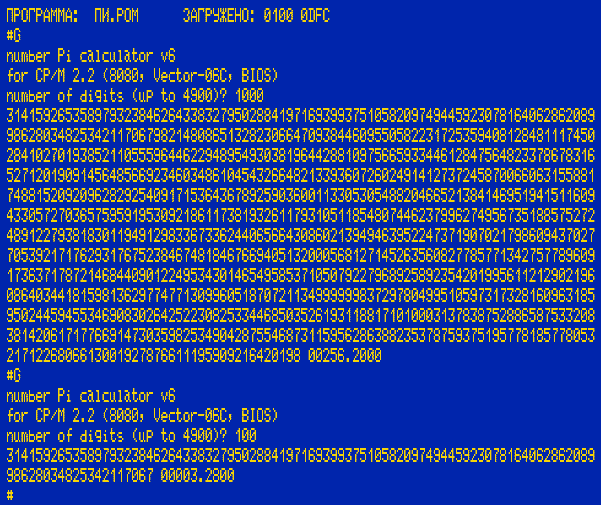
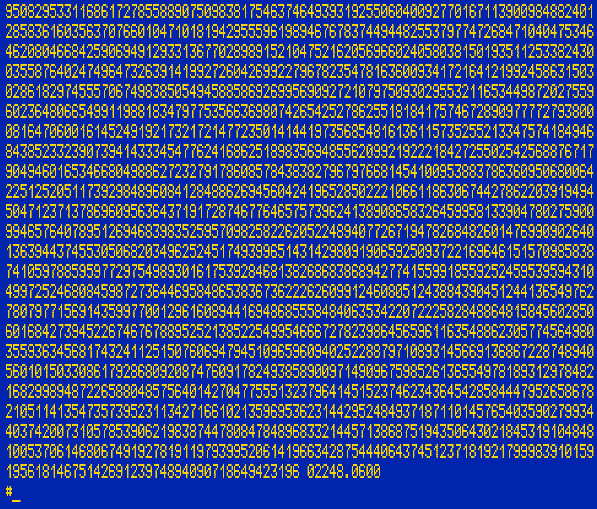
cpu article: a tiny upgrade to the Z80; pi: new data for the Amstrad CPC

diff --git a/pi-spigot-benchmark/pi-spigot-benchmark.html b/pi-spigot-benchmark/pi-spigot-benchmark.html
@@ -351,11 +351,11 @@ ma.push({computer: "Dragon 32", OS: "ROM Basic", driver: "dragon-4", connection:
 ma.push({computer: "Commodore 128/NTSC", OS: "ROM Basic", driver: "c128-14", connection: "display-40", t100: 1.5, t1000: 155.1, t3000: 1384.6, maxd: 5376, source: "VICE 3.7.1", estimation: false, comment: "", cpu: "8502", freq: 2.05, year: 1985, href: "https://en.wikipedia.org/wiki/Commodore_128", cpu100: -1, cpu1000: -1, cpu3000: -1, fixed: 0, screenshot: "rp/c128-ntsc.png"})
 ma.push({computer: "Commodore 128/PAL", OS: "ROM Basic", driver: "c128-14", connection: "display-40", t100: 1.6, t1000: 161.1, t3000: 1439.1, maxd: 5376, source: "VICE 3.7.1", estimation: false, comment: "", cpu: "8502", freq: 1.97, year: 1985, href: "https://en.wikipedia.org/wiki/Commodore_128", cpu100: 1.6, cpu1000: 160.6, cpu3000: 1436.8, fixed: 0, screenshot: "rp/c128-pal.png"})  //5376 - 4615.5s
 ma.push({computer: "ZX Spectrum 48k", OS: "ROM Basic", driver: "zx-2", connection: "display", t100: 1.88, t1000: 168.41, t3000: 1505.07, maxd: 4400, source: "ep128emu 2.0.9.1", estimation: false, comment: "", cpu: "Z80", freq: 3.5, year: 1982, href: "https://en.wikipedia.org/wiki/ZX_Spectrum", cpu100: -1, cpu1000: -1, cpu3000: -1, fixed: 0, screenshot: "rp/zx.png"})
-ma.push({computer: "Amstrad CPC6128", OS: "ROM Basic", driver: "cpc-8", connection: "display", t100: 2.03, t1000: 174.04, t3000: 1551.5, maxd: 5536, source: "ep128emu 2.0.9.1", estimation: false, comment: "", cpu: "Z80", freq: 4, year: 1985, href: "https://en.wikipedia.org/wiki/Amstrad_CPC", cpu100: -1, cpu1000: -1, cpu3000: -1, fixed: 0, screenshot: "rp/cpc6128-basic.png"})
+ma.push({computer: "Amstrad CPC6128", OS: "ROM Basic", driver: "cpc-10", connection: "display", t100: 1.87, t1000: 161.07, t3000: 1435.38, maxd: 5500, source: "ep128emu 2.0.11", estimation: false, comment: "", cpu: "Z80", freq: 4, year: 1985, href: "https://en.wikipedia.org/wiki/Amstrad_CPC", cpu100: -1, cpu1000: -1, cpu3000: -1, fixed: 0, screenshot: "rp/cpc6128-basic.png"})
 ma.push({computer: "Tiki-100", OS: "KP/M", driver: "cpm22bios-11-tiki100", connection: "display", t100: 2.04, t1000: 175.5, t3000: 1565, maxd: 7636, source: "real iron (thanks to per)", estimation: true, comment: "", cpu: "Z80", freq: 4, year: 1984, href: "https://en.wikipedia.org/wiki/Tiki_100", cpu100: -1, cpu1000: -1, cpu3000: -1, fixed: 0, screenshot: "rp/tiki-100.png"})
-ma.push({computer: "Amstrad CPC6128", OS: "CP/M 2.2", driver: "cpm22bios-11-cpc6128", connection: "display", t100: 2.15, t1000: 182.6, t3000: 1626.58, maxd: 5988, source: "ep128emu 2.0.9.1", estimation: false, comment: "", cpu: "Z80", freq: 4, year: 1985, href: "https://en.wikipedia.org/wiki/Amstrad_CPC", cpu100: -1, cpu1000: -1, cpu3000: -1, fixed: 0, screenshot: "rp/cpc6128-cpm22.png"})
-ma.push({computer: "Amstrad CPC6128", OS: "CP/M 3", driver: "cpc-cpm3-8", connection: "display", t100: 2.34, t1000: 190.94, t3000: 1692.58, maxd: 8660, source: "ep128emu 2.0.9.1", estimation: false, comment: "", cpu: "Z80", freq: 4, year: 1985, href: "https://en.wikipedia.org/wiki/Amstrad_CPC", cpu100: 2.03, cpu1000: 186.57, cpu3000: 1681.93, fixed: 0, screenshot: "rp/cpc6128-cpm3.png"})
-ma.push({computer: "Amstrad CPC6128", OS: "CP/M 3", driver: "cpc-cpm3-8", connection: "disk", t100: 3.23, t1000: 190.21, t3000: 1688.42, maxd: 8660, source: "ep128emu 2.0.9.1", estimation: false, comment: "", cpu: "Z80", freq: 4, year: 1985, href: "https://en.wikipedia.org/wiki/Amstrad_CPC", cpu100: -1, cpu1000: -1, cpu3000: -1, fixed: 0, screenshot: ""})
+ma.push({computer: "Amstrad CPC6128", OS: "CP/M 2.2", driver: "cpm22bios-16-cpc6128", connection: "display", t100: 1.99, t1000: 169.01, t3000: 1504.83, maxd: 5960, source: "ep128emu 2.0.11", estimation: false, comment: "", cpu: "Z80", freq: 4, year: 1985, href: "https://en.wikipedia.org/wiki/Amstrad_CPC", cpu100: -1, cpu1000: -1, cpu3000: -1, fixed: 0, screenshot: "rp/cpc6128-cpm22.png"})
+ma.push({computer: "Amstrad CPC6128", OS: "CP/M 3", driver: "cpc-cpm3-13", connection: "display", t100: 2.18, t1000: 176.84, t3000: 1566.27, maxd: 8628, source: "ep128emu 2.0.11", estimation: false, comment: "", cpu: "Z80", freq: 4, year: 1985, href: "https://en.wikipedia.org/wiki/Amstrad_CPC", cpu100: 1.87, cpu1000: 172.66, cpu3000: 1555.62, fixed: 0, screenshot: "rp/cpc6128-cpm3.png"})
+ma.push({computer: "Amstrad CPC6128", OS: "CP/M 3", driver: "cpc-cpm3-13", connection: "disk", t100: 3.61, t1000: 176.47, t3000: 1564.80, maxd: 8336, source: "ep128emu 2.0.11", estimation: false, comment: "", cpu: "Z80", freq: 4, year: 1985, href: "https://en.wikipedia.org/wiki/Amstrad_CPC", cpu100: -1, cpu1000: -1, cpu3000: -1, fixed: 0, screenshot: ""})
 ma.push({computer: "Amstrad PCW8256", OS: "CP/M 3", driver: "cpm22bdos-11-pcw8256", connection: "display", t100: 2.08, t1000: 189.9, t3000: 1700, maxd: 8660, source: "CP/M Box 1.8.5", estimation: false, comment: "", cpu: "Z80", freq: 4, year: 1985, href: "https://en.wikipedia.org/wiki/Amstrad_PCW", cpu100: -1, cpu1000: -1, cpu3000: -1, fixed: 0, screenshot: "rp/pcw8256.png"})
 ma.push({computer: "ABC 802", OS: "ROM Basic", driver: "abc800-1", connection: "display", t100: 2.12, t1000: 193.87, t3000: 1737.66, maxd: 3072, source: "MAME/MESS 0.229", estimation: false, comment: "", cpu: "Z80", freq: 3, year: 1981, href: "https://en.wikipedia.org/wiki/ABC_800", cpu100: -1, cpu1000: -1, cpu3000: -1, fixed: 0, screenshot: "rp/abc802.png"})
 ma.push({computer: "Atari 800XL/NTSC", OS: "ROM Basic", driver: "atari800xl-6", connection: "display", t100: 1.9, t1000: 185.5, t3000: 1655.99, maxd: 4536, source: "atari800 4.2.0", estimation: false, comment: "", cpu: "6502", freq: 1.79, year: 1983, href: "https://en.wikipedia.org/wiki/Atari_8-bit_family", cpu100: -1, cpu1000: -1, cpu3000: -1, fixed: 0, screenshot: "rp/atari800xl-ntsc.png"})
@@ -364,7 +364,7 @@ ma.push({computer: "Sanyo MPC-25FD", OS: "ROM Basic", driver: "msx-7", connectio
 ma.push({computer: "Sanyo MPC-25FD", OS: "MSX DOS", driver: "cpm22bdos-11-msx", connection: "display", t100: 2.38, t1000: 210.12, t3000: 1874.48, maxd: 7488, source: "openmsx 0.13.0", estimation: false, comment: "MSX 2", cpu: "Z80", freq: 3.58, year: 1985, href: "https://en.wikipedia.org/wiki/MSX", cpu100: -1, cpu1000: -1, cpu3000: -1, fixed: 0, screenshot: "rp/msx-dos.png"})
 ma.push({computer: "&#x411;K0011", OS: "&#x411;K0010 OS", driver: "bk11-7", connection: "display", t100: 2.73, t1000: 240.05, t3000: 2143, maxd: 4412, source: "real iron (thanks to Manwe)", estimation: false, comment: "", cpu: "K1801BM1", freq: 4, year: 1989, href: "https://en.wikipedia.org/wiki/Electronika_BK", cpu100: -1, cpu1000: -1, cpu3000: -1, fixed: 0, screenshot: "rp/bk0011m.png"})
 ma.push({computer: "&#x411;K0010", OS: "ROM Monitor", driver: "bk10-7", connection: "display", t100: 2.86, t1000: 252.33, t3000: 2253.44, maxd: 3824, source: "real iron (thanks to Manwe)", estimation: false, comment: "", cpu: "K1801BM1", freq: 3, year: 1985, href: "https://en.wikipedia.org/wiki/Electronika_BK", cpu100: -1, cpu1000: -1, cpu3000: -1, fixed: 0, screenshot: "rp/bk0010.png"})
-ma.push({computer: "Amstrad CPC6128", OS: "CP/M 2.2", driver: "cpm22bios-8080-6-cpc", connection: "display", t100: 2.28, t1000: 187.61, t3000: 1659.82, maxd: 5848, source: "ep128emu 2.0.11", estimation: false, comment: "", cpu: "Z80", freq: 4, year: 1985, href: "https://en.wikipedia.org/wiki/Amstrad_CPC", cpu100: 2.08, cpu1000: 185.61, cpu3000: 1653.58, fixed: 0, screenshot: "rp/cpc6128-cpm22-8080.png"})
+ma.push({computer: "Amstrad CPC6128", OS: "CP/M 2.2", driver: "cpm22bios-8080-7-cpc", connection: "display", t100: 2.28, t1000: 187.11, t3000: 1655.35, maxd: 5848, source: "ep128emu 2.0.11", estimation: false, comment: "", cpu: "Z80", freq: 4, year: 1985, href: "https://en.wikipedia.org/wiki/Amstrad_CPC", cpu100: 2.08, cpu1000: 185.1, cpu3000: 1649.05, fixed: 0, screenshot: "rp/cpc6128-cpm22-8080.png"})
 ma.push({computer: "&#x411;K0011", OS: "RT11SJ", driver: "rt11-noeis-9", connection: "display", t100: 3.28, t1000: 275.62, t3000: 2450.22, maxd: 5460, source: "gid BK emulator v3.10", estimation: false, comment: "", cpu: "K1801BM1", freq: 4, year: 1989, href: "https://en.wikipedia.org/wiki/Electronika_BK", cpu100: -1, cpu1000: -1, cpu3000: -1, fixed: 0, screenshot: "rp/bk0011m-rt11.png"})
 ma.push({computer: "Commodore VIC-20 (29KB RAM)/PAL", OS: "ROM Basic", driver: "vic20-3", connection: "display", t100: 2.85, t1000: 278.45, t3000: 2486.28, maxd: 3472, source: "VICE 3.3", estimation: false, comment: "", cpu: "6502", freq: 1.11, year: 1981, href: "https://en.wikipedia.org/wiki/Commodore_VIC-20", cpu100: 2.8, cpu1000: 277.58, cpu3000: 2483.15, fixed: 0, screenshot: "rp/vic20-pal.png"})
 ma.push({computer: "Tandy TRS-80 model 100", OS: "ROM Basic", driver: "tandy100-2", connection: "display", t100: 3.25, t1000: 291.58, t3000: 2563.17, maxd: 4128, source: "real iron (thanks to Twospruces &amp; micahcowan)", estimation: false, comment: "", cpu: "80C85", freq: 2.4576, year: 1983, href: "https://en.wikipedia.org/wiki/TRS-80_Model_100", cpu100: 3.06, cpu1000: 281.96, cpu3000: 2529.41, fixed: 0, screenshot: "rp/tandy100.jpg"})
@@ -378,8 +378,8 @@ ma.push({computer: "Apple IIgs", OS: "Applesoft Basic", driver: "apple2c-65c02-2
 ma.push({computer: "Tandy TRS-80 MC-10", OS: "ROM Basic", driver: "mc10-1", connection: "display", t100: 3.15, t1000: 290.12, t3000: 2603.81, maxd: 2288, source: "XRoar 1.0.7", estimation: false, comment: "", cpu: "6803", freq: 0.895, year: 1983, href: "https://en.wikipedia.org/wiki/TRS-80_MC-10", cpu100: 3.15, cpu1000: 289.68, cpu3000: 2602.31, fixed: 0, screenshot: "rp/mc-10.png"})
 ma.push({computer: "Apple IIc", OS: "Applesoft Basic", driver: "apple2c-65c02-2", connection: "display", t100: 3.1, t1000: 305.33, t3000: 2729.72, maxd: 4676, source: "MAME 0.229", estimation: false, comment: "", cpu: "65C02", freq: 1.02, year: 1984, href: "https://en.wikipedia.org/wiki/Apple_IIc", cpu100: -1, cpu1000: -1, cpu3000: -1, fixed: 0, screenshot: "rp/apple2c.png"})
 ma.push({computer: "Apple IIe", OS: "Applesoft Basic", driver: "apple2e-2", connection: "display", t100: 3.17, t1000: 311.58, t3000: 2784.5, maxd: 4748, source: "MAME 0.229", estimation: false, comment: "", cpu: "6502", freq: 1.02, year: 1983, href: "https://en.wikipedia.org/wiki/Apple_IIe", cpu100: -1, cpu1000: -1, cpu3000: -1, fixed: 0, screenshot: ""})
-ma.push({computer: "Kop&#x432;e&#x442;", OS: "CP/M 2.2", driver: "cpm22bios-8080-6-korvet", connection: "display", t100: 2.7, t1000: 231.42, t3000: 2053.64, maxd: 7496, source: "Emu80 4.0.457", estimation: false, comment: "emu difference is below below 0.55% for Sancho45's computer", cpu: "8080", freq: 2.5, year: 1987, href: "https://en.wikipedia.org/wiki/Corvette_(computer)", cpu100: 2.64, cpu1000: 230.8, cpu3000: 2051.48, fixed: 0, screenshot: "rp/korvet.png"})
-ma.push({computer: "Kop&#x432;e&#x442;", OS: "CP/M 2.2", driver: "cpm22bdos-8080-6-korvet", connection: "display", t100: 2.72, t1000: 231.72, t3000: 2054.52, maxd: 6984, source: "Emu80 4.0.457", estimation: true, comment: "", cpu: "8080", freq: 2.5, year: 1987, href: "https://en.wikipedia.org/wiki/Corvette_(computer)", cpu100: -1, cpu1000: -1, cpu3000: -1, fixed: 0, screenshot: "rp/korvet-bdos.png"})
+ma.push({computer: "Kop&#x432;e&#x442;", OS: "CP/M 2.2", driver: "cpm22bios-8080-7-korvet", connection: "display", t100: 2.68, t1000: 230.54, t3000: 2045.66, maxd: 7496, source: "Emu80 4.0.457", estimation: false, comment: "emu difference is below below 0.55% for Sancho45's computer", cpu: "8080", freq: 2.5, year: 1987, href: "https://en.wikipedia.org/wiki/Corvette_(computer)", cpu100: 2.64, cpu1000: 229.92, cpu3000: 2043.5, fixed: 0, screenshot: "rp/korvet.png"})
+ma.push({computer: "Kop&#x432;e&#x442;", OS: "CP/M 2.2", driver: "cpm22bdos-8080-6-korvet", connection: "display", t100: 2.72, t1000: 230.82, t3000: 2046.52, maxd: 6984, source: "Emu80 4.0.457", estimation: true, comment: "", cpu: "8080", freq: 2.5, year: 1987, href: "https://en.wikipedia.org/wiki/Corvette_(computer)", cpu100: -1, cpu1000: -1, cpu3000: -1, fixed: 0, screenshot: "rp/korvet-bdos.png"})
 ma.push({computer: "Tandy TRS-80 Model I", OS: "TRSDOS 2.3", driver: "trsdos-m1-1", connection: "display", t100: 3.7, t1000: 337.65, t3000: 3024.08, maxd: 6068, source: "trs80gp v2.4.3", estimation: false, comment: "", cpu: "Z80", freq: 1.77, year: 1977, href: "https://en.wikipedia.org/wiki/TRS-80", cpu100: -1, cpu1000: -1, cpu3000: -1, fixed: 0, screenshot: "rp/trs-80-m1.png"})
 ma.push({computer: "Tandy TRS-80 Model II", OS: "Pickles &amp; Trout CP/M", driver: "cpm22pt-bios-13", connection: "display", t100: 1.62, t1000: 146.65, t3000: 1313.34, maxd: 8220, source: "trs80gp v2.4.3", estimation: false, comment: "", cpu: "Z80", freq: 4.00, year: 1979, href: "https://en.wikipedia.org/wiki/TRS-80_Model_II", cpu100: -1, cpu1000: -1, cpu3000: -1, fixed: 0, screenshot: "rp/trs-80-m2.png"})
 ma.push({computer: "Tandy TRS-80 Model III", OS: "TRSDOS 1.3", driver: "trsdos-m3-1", connection: "display", t100: 3.17, t1000: 288.2, t3000: 2581.1, maxd: 6068, source: "trs80gp v2.4.3", estimation: false, comment: "", cpu: "Z80", freq: 2.03, year: 1980, href: "https://en.wikipedia.org/wiki/TRS-80", cpu100: -1, cpu1000: -1, cpu3000: -1, fixed: 0, screenshot: "rp/trs-80-m3.png"})
@@ -459,7 +459,7 @@ ma.push({computer: "DEC Pro-380", OS: "RT-11XM 5.03", driver: "rt11-eis-9", conn
 ma.push({computer: "DEC Pro-380", OS: "RT-11XM 5.03", driver: "rt11-noeis-6", connection: "display", t100: 0.8, t1000: 57.75, t3000: 505.07, maxd: 3592, source: "real iron (thanks to stanp)", estimation: false, comment: "", cpu: "J11", freq: 10, year: 1985, href: "https://en.wikipedia.org/wiki/DEC_Professional_(computer)", cpu100: -1, cpu1000: -1, cpu3000: -1, fixed: 0, screenshot: ""})
 ma.push({computer: "DEC Pro-380", OS: "RT-11FB 5.03", driver: "rt11-eis-9of", connection: "display", t100: 0.38, t1000: 21.57, t3000: 182.72, maxd: 4428, source: "real iron (thanks to stanp)", estimation: false, comment: "", cpu: "J11", freq: 10, year: 1985, href: "https://en.wikipedia.org/wiki/DEC_Professional_(computer)", cpu100: -1, cpu1000: -1, cpu3000: -1, fixed: 0, screenshot: ""})
 ma.push({computer: "DEC Pro-350", OS: "P/OS 3.2", driver: "rsx11-eis-2of", connection: "display", t100: 1.14, t1000: 61.28, t3000: 520.12, maxd: 9048, source: "real iron (thanks to AndrewZ)", estimation: false, comment: "", cpu: "F11", freq: 13.33, year: 1982, href: "https://en.wikipedia.org/wiki/DEC_Professional_(computer)", cpu100: -1, cpu1000: -1, cpu3000: -1, fixed: 0, screenshot: ""})
-ma.push({computer: "Be&#x43a;&#x442;op-06&#x426;", OS: "Monitor 2.6", driver: "cpm22bios-8080-6-vector06c", connection: "display", t100: 3.24, t1000: 256.2, t3000: 2254.18, maxd: 4900, source: "emu80 4.0.457", estimation: false, comment: "", cpu: "8080", freq: 3, year: 1987, href: "https://en.wikipedia.org/wiki/Vector-06C", cpu100: 2.96, cpu1000: 253.06, cpu3000: 2244.74, fixed: 0, screenshot: "rp/vector-06c.png"}) //4900 - 5993.1
+ma.push({computer: "Be&#x43a;&#x442;op-06&#x426;", OS: "Monitor 2.6", driver: "cpm22bios-8080-6-vector06c", connection: "display", t100: 3.26, t1000: 255.52, t3000: 2248.02, maxd: 4936, source: "emu80 4.0.457", estimation: false, comment: "", cpu: "8080", freq: 3, year: 1987, href: "https://en.wikipedia.org/wiki/Vector-06C", cpu100: 2.94, cpu1000: 252.4, cpu3000: 2238.7, fixed: 0, screenshot: "rp/vector-06c.png"}) //4936 - 6067.04
 ma.push({computer: "DEC Pro-380", OS: "P/OS 3.2", driver: "rsx11-noeis-1", connection: "display", t100: 0.89, t1000: 59.73, t3000: 518.93, maxd: 8968, source: "real iron (thanks to stanp)", estimation: false, comment: "", cpu: "J11", freq: 10, year: 1985, href: "https://en.wikipedia.org/wiki/DEC_Professional_(computer)", cpu100: -1, cpu1000: -1, cpu3000: -1, fixed: 0, screenshot: ""})
 ma.push({computer: "DEC Pro-380", OS: "P/OS 3.2", driver: "rsx11-eis-2of", connection: "display", t100: 0.5, t1000: 23.25, t3000: 190.2, maxd: 9048, source: "real iron (thanks to stanp)", estimation: false, comment: "", cpu: "J11", freq: 10, year: 1985, href: "https://en.wikipedia.org/wiki/DEC_Professional_(computer)", cpu100: -1, cpu1000: -1, cpu3000: -1, fixed: 0, screenshot: ""})
 ma.push({computer: "MicroDigital Omega", OS: "RiscOS", driver: "arm2-1", connection: "display", t100: 0, t1000: 0.1, t3000: 0.97, maxd: 9144, source: "real iron (thanks to RobC)", estimation: false, comment: "", cpu: "StrongARM", freq: 300, year: 2003, href: "https://en.wikipedia.org/wiki/MicroDigital_Omega", cpu100: -1, cpu1000: -1, cpu3000: -1, fixed: 0, screenshot: ""}) //9144 - 9.49s
@@ -535,14 +535,14 @@ ma.sort(function(a, b){ return a.t3000 - b.t3000 })
 <tr><td>cpm22bios-7<td>Z80<td align=right>748+768=1516<sup>*5</sup><td align=right>2270&mdash;2283
 <tr><td>trsdos-m1-1<td>Z80<td align=right>748+768=1516<sup>*5</sup><td align=right>2284
 <tr><td>trsdos-m3-1<td>Z80<td align=right>748+768=1516<sup>*5</sup><td align=right>2286
-<tr><td>cpc-cpm3-10<td>Z80<td align=right>748+768=1516<sup>*5</sup><td align=right>2287
+<tr><td>cpc-cpm3-13<td>Z80<td align=right>1078+768=1846<sup>*5</sup><td align=right>2544
 <tr><td>trsdos-m4-1<td>Z80<td align=right>748+768=1516<sup>*5</sup><td align=right>2299
-<tr><td>cpc-5<td>Z80<td align=right>748+768=1516<sup>*5</sup><td align=right>1804+579=2383<sup>*1</sup>
+<tr><td>cpc-10<td>Z80<td align=right>1078+768=1848<sup>*5</sup><td align=right>2060+575=2635<sup>*1</sup>
 <tr><td>cpm22bdos-7<td>Z80<td align=right>748+768=1516<sup>*5</sup><td align=right>2266&mdash;2548
 <tr><td>zx-1<td>Z80<td align=right>748+768=1516<sup>*5</sup><td align=right>4666<sup>*3</sup>
 <tr><td>abc800-1<td>Z80<td align=right>748+768=1516<sup>*5</sup><td align=right>1804+579=4684<sup>*8</sup>
 <tr><td>tandy100-1<td>8085<td align=right>992+768=1760<sup>*5</sup><td align=right>2054+378=2432<sup>*1</sup>
-<tr><td>cpm22bios-8080-6<td>8080<td align=right>1831+768=2259<sup>*5</sup><td align=right>3320&ndash;3325
+<tr><td>cpm22bios-8080-7<td>8080<td align=right>1832+768=2260<sup>*5</sup><td align=right>3320&ndash;3325
 <tr><td>vic20-3<td>6502<td align=right>2353+768=3121<sup>*5*6</sup><td align=right>[3497+264+2]=3773<sup>*7</sup>
 <tr><td>pet-1<td>6502<td align=right>2353+768=3121<sup>*5*6</sup><td align=right>[3498+263+2]=3773<sup>*7</sup>
 <tr><td>plus4-13<td>6502<td align=right>2353+768=3121<sup>*5*6</sup><td align=right>[3501+526+2]=4029<sup>*7</sup>
@@ -569,7 +569,7 @@ Square brackets combine part sizes that are parts of one file.<br>
 <br>
 <p>Thanks a lot to the people who helped: bqt, ivagor, perestoronin, BigEd, tricky, MMS, Thorham, meynaf, saimo, Don_Adan, mizapf, modrobert, a/b, ...
 <hr>
-<p>Download the latest sources and executables (<a href=https://drive.google.com/file/d/10lSF_zo0ypiQSS5whiBxNRyAU6LKv2uH/view?usp=sharing>v75 [183 KB]</a>) pack.
+<p>Download the sources and executables (<a href=https://drive.google.com/file/d/10lSF_zo0ypiQSS5whiBxNRyAU6LKv2uH/view?usp=sharing>v75 [183 KB]</a>) pack.
 <p><a href=https://github.com/litwr2/rosetta-pi-spigot>Sources</a> <a href=pipacks.html>Archive</a> <script>document.write(mirror())</script>
 <script>
 drawTabs()

diff --git a/cpu-art/cpu-z80-ru.html b/cpu-art/cpu-z80-ru.html
@@ -32,7 +32,7 @@
 
 <p>Большинство новых команд довольно медленные, но их правильное использование может все же сделать код несколько быстрее и существенно компактнее. Это особенно относится к использованию новых 16-разрядных регистров IX и IY, которые можно использовать для новых методов адресации. Интересно, что индексные регистры IX и IY появились в Z80 с целью привлечь пользователей 6800 к переходу на Z80!
 
-<p>Многие команды 8080 в z80 стали на такт быстрее и это очень заметное ускорение. Но основная для 16-битной арифметики команда ADD стала на такт медленнее. Также стали медленнее команды <code class=code>LD SP,HL</code>, <code class=code>EX (SP),HL</code>, инкремент и декремент с памятью и 16-разрядными регистрами, а также операции ввода и вывода. Поэтому коды 8080 выполняются на z80 если и быстрее, то только чуть-чуть. Однако, если реализовывать одинаковый алгоритм для 8080 и Z80, то Z80 может быть значительно быстрее, например, расчет числа &pi; по алгоритму-затвору для Z80 у меня получился почти на 40 процентов быстрее, чем для 8080.
+<p>Многие команды 8080 в z80 стали на такт быстрее и это очень заметное ускорение. Но основная для 16-битной арифметики команда ADD стала на такт медленнее. Также стали медленнее команды <code class=code>LD SP,HL</code>, <code class=code>EX (SP),HL</code>, инкремент и декремент с памятью и 16-разрядными регистрами, а также операции ввода и вывода. Поэтому коды 8080 выполняются на z80 если и быстрее, то только чуть-чуть. Однако, если реализовывать одинаковый алгоритм для 8080 и Z80, то Z80 может быть заметно быстрее, например, расчет числа &pi; по алгоритму-затвору для Z80 у меня получился почти на 10 процентов быстрее, чем для 8080.
 
 <p>В Z80 добавили поддержку уникального флага, который не встречается больше ни в одной системе. Это флаг вычитания. Он используется только командой десятичной коррекции DAA, которую на Z80 можно использовать и после вычитания.
 

diff --git a/cpu-art/cpu-z80-en.html b/cpu-art/cpu-z80-en.html
@@ -32,7 +32,7 @@
 
 <p>Most new commands are rather slow, but using them right can still make the code somewhat faster and significantly more compact.  This particularly applies to the use of new 16-bit registers IX and IY, which can be used for new addressing modes.  Interestingly, the index registers IX and IY appeared in the Z80 in order to attract the 6800 users to use the Z80 instead!
 
-<p>Many of the 8080's commands in the z80 became faster by one clock and this is a very noticeable acceleration.  But the basic command for 16-bit arithmetic, the ADD instruction became slower by one clock, also commands <code class=code>LD SP,HL</code> and <code class=code>EX (SP),HL</code>, the increment and decrement with memory and 16-bit registers, as well as the input and output operations became slower.  Therefore, codes of the 8080 are executed on the z80 maybe only slightly faster.  However, if you implement the same algorithm for the 8080 and Z80, then the Z80 can be much faster, for example, the calculation of the &pi; number using a spigot algorithm for the Z80 turned out to be almost 40 percent faster than for the 8080.
+<p>Many of the 8080's commands in the z80 became faster by one clock and this is a very noticeable acceleration.  But the basic command for 16-bit arithmetic, the ADD instruction became slower by one clock, also commands <code class=code>LD SP,HL</code> and <code class=code>EX (SP),HL</code>, the increment and decrement with memory and 16-bit registers, as well as the input and output operations became slower.  Therefore, codes of the 8080 are executed on the z80 maybe only slightly faster.  However, if you implement the same algorithm for the 8080 and Z80, then the Z80 can be noticeably faster, for example, the calculation of the &pi; number using a spigot algorithm for the Z80 turned out to be almost 10 percent faster than for the 8080.
 
 <p>The Z80 got support for a unique flag that is not found in any other system, this is the subtraction flag.  It is only used by decimal correction command DAA, which can be used on the Z80 even after subtraction.
 
